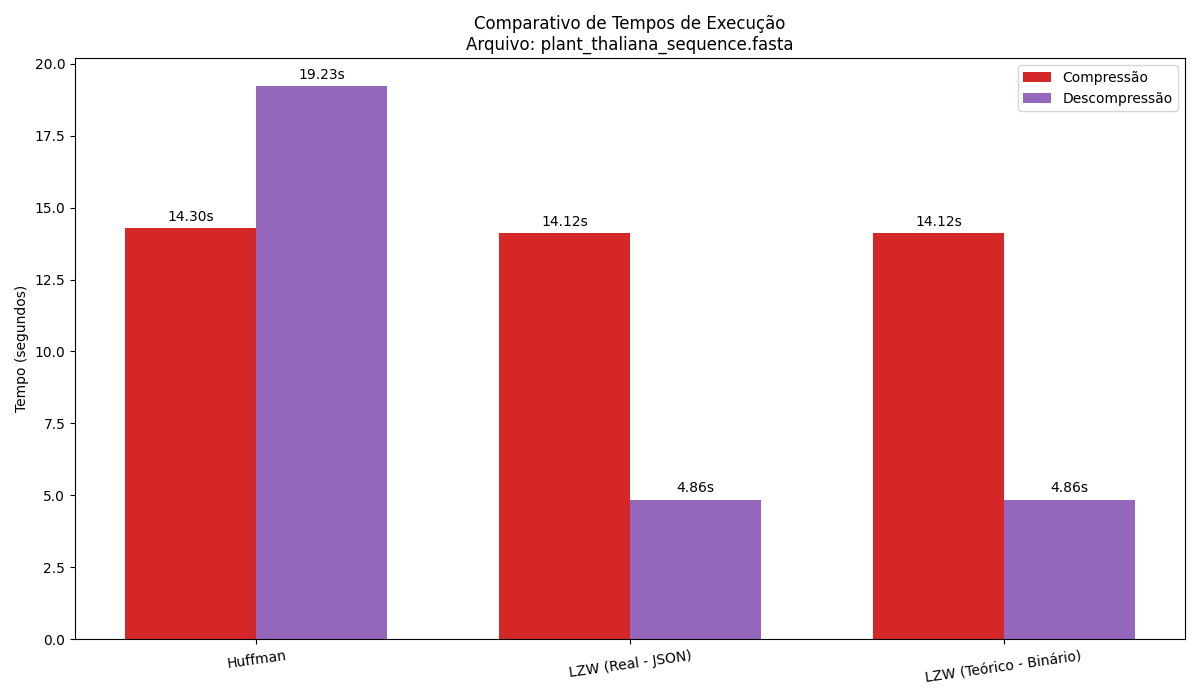
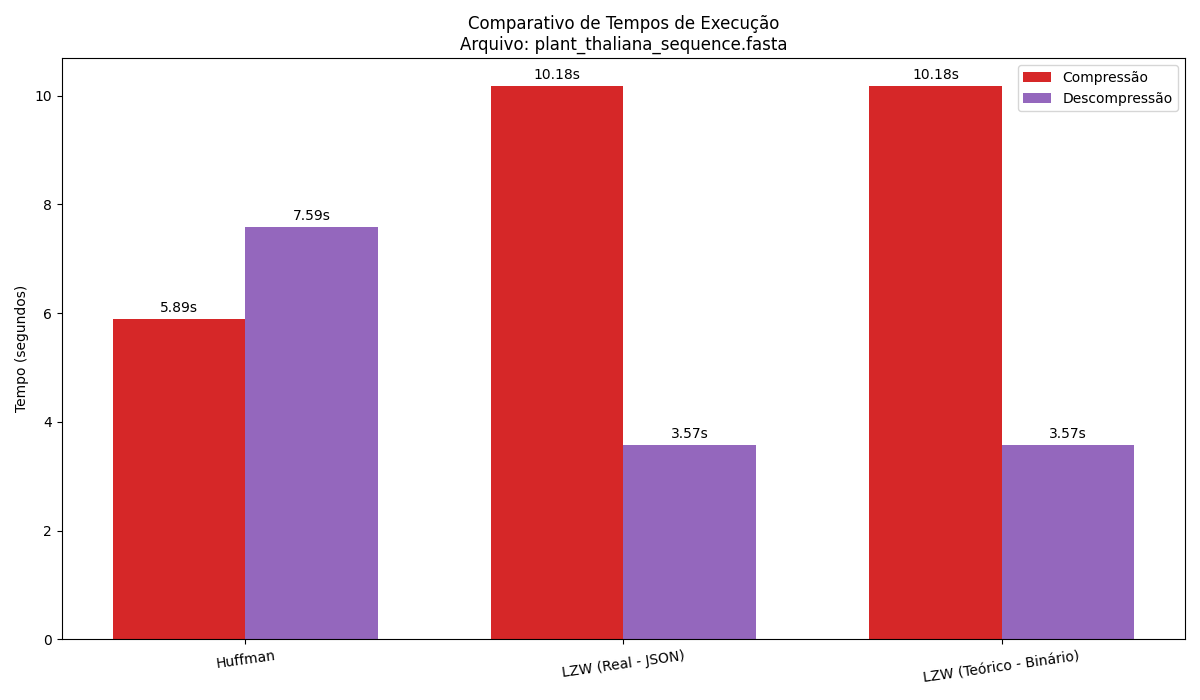
Menu interativo para selecionar arquivo, e alguns resultados adicionais nos relatórios

diff --git a/src/main.py b/src/main.py
@@ -111,6 +111,37 @@ def gerar_relatorio_markdown(resultados: dict, arquivo_base: str, tamanho_origin
             t_decomp = res['Tempo de Descompressão (s)']
             f.write(f"| **{algoritmo}** | {tamanho:.2f} | {taxa:.2f} | {t_comp:.4f} | {t_decomp:.4f} |\n")
         
+
+        f.write("\n## Métricas Avançadas e Análise Teórica\n\n")
+
+        # --- Análise Huffman ---
+        huffman_res = resultados.get('Huffman', {})
+        if 'Entropia de Shannon (bits/símbolo)' in huffman_res:
+            f.write("### Análise do Algoritmo Huffman\n\n")
+            entropia = huffman_res['Entropia de Shannon (bits/símbolo)']
+            comp_medio = huffman_res['Comprimento Médio do Código (bits/símbolo)']
+            
+            f.write(f"- **Entropia de Shannon:** `{entropia:.4f}` bits/símbolo\n")
+            f.write("  - *Significado: Representa o **limite teórico** da compressão para este arquivo. É o número mínimo de bits, em média, necessários para representar cada caractere com base em suas frequências.*\n\n")
+            
+            f.write(f"- **Comprimento Médio do Código:** `{comp_medio:.4f}` bits/símbolo\n")
+            f.write("  - *Significado: Representa o **desempenho real** da nossa implementação. Um valor próximo da entropia indica uma compressão Huffman de altíssima eficiência, mostrando que o algoritmo se aproximou do ótimo teórico.*\n\n")
+
+        # --- Análise LZW ---
+        lzw_res = resultados.get('LZW (Teórico - Binário)', {})
+        if 'Tamanho Final do Dicionário' in lzw_res:
+            f.write("### Análise do Algoritmo LZW\n\n")
+            dict_size = lzw_res['Tamanho Final do Dicionário']
+            reduction_rate = lzw_res['Taxa de Redução de Símbolos']
+
+            f.write(f"- **Tamanho Final do Dicionário:** `{dict_size:,}` entradas\n")
+            f.write("  - *Significado: Indica quantos padrões únicos e sequências repetitivas o algoritmo 'aprendeu'. Um número maior sugere que o arquivo possui uma estrutura com mais repetições que podem ser exploradas.*\n\n")
+
+            f.write(f"- **Taxa de Redução de Símbolos:** `{reduction_rate:.2f}`\n")
+            f.write("  - *Significado: Mostra, em média, quantos caracteres do texto original foram representados por **um único código LZW**. Um valor maior é um forte indicador de alta eficiência de compressão.*\n\n")
+
+
+
         # Gráficos
         f.write("\n## Gráficos Comparativos\n\n")
         f.write("### Comparativo de Tamanho Final\n")
@@ -129,23 +160,58 @@ def main():
     """
     print("--- INÍCIO DO PROCESSO DE ANÁLISE COMPARATIVA DE COMPRESSÃO ---")
 
-    # --- CONFIGURAÇÃO ---
-    arquivo_base = "plant_thaliana_sequence" # Altere para testar outros genomas
+    # --- SELEÇÃO DE ARQUIVO INTERATIVA ---
     
-    caminho_entrada = f'data/{arquivo_base}.fasta'
-    # Huffman paths
-    caminho_comprimido_huffman = f'data/{arquivo_base}_huffman.huff'
-    caminho_descomprimido_huffman = f'data/{arquivo_base}_huffman_decompressed.fasta'
-    # LZW path (para o arquivo JSON real)
-    caminho_comprimido_lzw = f'data/{arquivo_base}_lzw.lzw'
+    print("\n[ETAPA 0: Seleção de Arquivo]")
+    
+    # 1. Encontra todos os arquivos .fasta na pasta data/
+    data_path = 'data'
+    try:
+        fasta_files = [f for f in os.listdir(data_path) if f.endswith(('.fasta', '.fa'))]
+    except FileNotFoundError:
+        print(f"ERRO: A pasta '{data_path}' não foi encontrada. Crie-a e adicione seus arquivos .fasta.")
+        return
+
+    if not fasta_files:
+        print(f"ERRO: Nenhum arquivo .fasta encontrado na pasta '{data_path}'.")
+        return
+
+    # 2. Mostra os arquivos para o usuário
+    print("Por favor, escolha o arquivo de genoma para analisar:")
+    for i, filename in enumerate(fasta_files):
+        print(f"  [{i + 1}] {filename}")
+
+    # 3. Pede ao usuário para escolher um número
+    escolha = -1
+    while True:
+        try:
+            entrada = input(f"Digite o número do arquivo (1-{len(fasta_files)}): ")
+            escolha = int(entrada) - 1
+            if 0 <= escolha < len(fasta_files):
+                break
+            else:
+                print("Escolha inválida. Por favor, digite um número da lista.")
+        except ValueError:
+            print("Entrada inválida. Por favor, digite um número.")
+
+    # 4. Define o arquivo_base com base na escolha do usuário
+    arquivo_fasta_selecionado = fasta_files[escolha]
+    arquivo_base = os.path.splitext(arquivo_fasta_selecionado)[0]
+    
+    # --- FIM DA SELEÇÃO ---
+
+
+    # --- CONFIGURAÇÃO ---
+    
+    caminho_entrada = os.path.join('data', arquivo_fasta_selecionado) # Usa o nome completo
+    caminho_comprimido_huffman = os.path.join('data', f'{arquivo_base}_huffman.huff') # Usa o nome base
+    caminho_descomprimido_huffman = os.path.join('data', f'{arquivo_base}_huffman_decompressed.fasta') # Usa o nome base
+    caminho_comprimido_lzw = os.path.join('data', f'{arquivo_base}_lzw.lzw') # Usa o nome base
 
     resultados = {}
 
     # --- 1. ANÁLISE DO ARQUIVO ORIGINAL ---
     print("\n[ETAPA 1: Análise do Arquivo Original]")
-    if not os.path.exists(caminho_entrada):
-        print(f"ERRO: Arquivo de entrada não encontrado em '{caminho_entrada}'")
-        return
 
     tamanho_original = os.path.getsize(caminho_entrada)
     print(f"Arquivo a ser processado: {caminho_entrada}")

diff --git a/RELATORIO_plant_thaliana_sequence.md b/RELATORIO_plant_thaliana_sequence.md
@@ -2,16 +2,35 @@
 
 ## Arquivo Analisado
 - **Nome:** `plant_thaliana_sequence.fasta`
-- **Tamanho Original:** 30139.07 KB
+- **Tamanho Original:** 30563.57 KB
 - **Total de Bases:** 30,427,671
 
 ## Tabela de Resultados
 
 | Algoritmo | Tamanho Comprimido (KB) | Taxa de Compressão (%) | Tempo Compressão (s) | Tempo Descompressão (s) |
 |---|---|---|---|---|
-| **Huffman** | 8130.76 | 73.02 | 14.2964 | 19.2263 |
-| **LZW (Real - JSON)** | 24087.23 | 20.08 | 14.1241 | 4.8600 |
-| **LZW (Teórico - Binário)** | 8132.86 | 73.02 | 14.1241 | 4.8600 |
+| **Huffman** | 8130.76 | 73.40 | 5.8912 | 7.5857 |
+| **LZW (Real - JSON)** | 24087.23 | 21.19 | 10.1791 | 3.5665 |
+| **LZW (Teórico - Binário)** | 8132.86 | 73.39 | 10.1791 | 3.5665 |
+
+## Métricas Avançadas e Análise Teórica
+
+### Análise do Algoritmo Huffman
+
+- **Entropia de Shannon:** `1.9798` bits/símbolo
+  - *Significado: Representa o **limite teórico** da compressão para este arquivo. É o número mínimo de bits, em média, necessários para representar cada caractere com base em suas frequências.*
+
+- **Comprimento Médio do Código:** `2.1890` bits/símbolo
+  - *Significado: Representa o **desempenho real** da nossa implementação. Um valor próximo da entropia indica uma compressão Huffman de altíssima eficiência, mostrando que o algoritmo se aproximou do ótimo teórico.*
+
+### Análise do Algoritmo LZW
+
+- **Tamanho Final do Dicionário:** `3,028,635` entradas
+  - *Significado: Indica quantos padrões únicos e sequências repetitivas o algoritmo 'aprendeu'. Um número maior sugere que o arquivo possui uma estrutura com mais repetições que podem ser exploradas.*
+
+- **Taxa de Redução de Símbolos:** `10.05`
+  - *Significado: Mostra, em média, quantos caracteres do texto original foram representados por **um único código LZW**. Um valor maior é um forte indicador de alta eficiência de compressão.*
+
 
 ## Gráficos Comparativos
 

diff --git a/RELATORIO_humano_chromosome-22_sequence.md b/RELATORIO_humano_chromosome-22_sequence.md
@@ -9,9 +9,28 @@
 
 | Algoritmo | Tamanho Comprimido (KB) | Taxa de Compressão (%) | Tempo Compressão (s) | Tempo Descompressão (s) |
 |---|---|---|---|---|
-| **Huffman** | 15772.12 | 68.67 | 10.7913 | 15.6051 |
-| **LZW (Real - JSON)** | 29263.49 | 41.86 | 22.0065 | 4.1745 |
-| **LZW (Teórico - Binário)** | 9722.73 | 80.68 | 22.0065 | 4.1745 |
+| **Huffman** | 15772.12 | 68.67 | 11.2468 | 15.7926 |
+| **LZW (Real - JSON)** | 29263.49 | 41.86 | 23.3278 | 4.1289 |
+| **LZW (Teórico - Binário)** | 9722.73 | 80.68 | 23.3278 | 4.1289 |
+
+## Métricas Avançadas e Análise Teórica
+
+### Análise do Algoritmo Huffman
+
+- **Entropia de Shannon:** `2.3162` bits/símbolo
+  - *Significado: Representa o **limite teórico** da compressão para este arquivo. É o número mínimo de bits, em média, necessários para representar cada caractere com base em suas frequências.*
+
+- **Comprimento Médio do Código:** `2.5425` bits/símbolo
+  - *Significado: Representa o **desempenho real** da nossa implementação. Um valor próximo da entropia indica uma compressão Huffman de altíssima eficiência, mostrando que o algoritmo se aproximou do ótimo teórico.*
+
+### Análise do Algoritmo LZW
+
+- **Tamanho Final do Dicionário:** `3,620,645` entradas
+  - *Significado: Indica quantos padrões únicos e sequências repetitivas o algoritmo 'aprendeu'. Um número maior sugere que o arquivo possui uma estrutura com mais repetições que podem ser exploradas.*
+
+- **Taxa de Redução de Símbolos:** `14.04`
+  - *Significado: Mostra, em média, quantos caracteres do texto original foram representados por **um único código LZW**. Um valor maior é um forte indicador de alta eficiência de compressão.*
+
 
 ## Gráficos Comparativos
 

diff --git a/RELATORIO_bacteria_e-coli_sequence.md b/RELATORIO_bacteria_e-coli_sequence.md
@@ -9,9 +9,28 @@
 
 | Algoritmo | Tamanho Comprimido (KB) | Taxa de Compressão (%) | Tempo Compressão (s) | Tempo Descompressão (s) |
 |---|---|---|---|---|
-| **Huffman** | 1133.27 | 75.35 | 0.8363 | 0.9472 |
-| **LZW (Real - JSON)** | 3941.95 | 14.26 | 1.0600 | 0.4779 |
-| **LZW (Teórico - Binário)** | 1329.53 | 71.08 | 1.0600 | 0.4779 |
+| **Huffman** | 1133.27 | 75.35 | 0.8200 | 1.0655 |
+| **LZW (Real - JSON)** | 3941.95 | 14.26 | 1.2105 | 0.4808 |
+| **LZW (Teórico - Binário)** | 1329.53 | 71.08 | 1.2105 | 0.4808 |
+
+## Métricas Avançadas e Análise Teórica
+
+### Análise do Algoritmo Huffman
+
+- **Entropia de Shannon:** `1.9998` bits/símbolo
+  - *Significado: Representa o **limite teórico** da compressão para este arquivo. É o número mínimo de bits, em média, necessários para representar cada caractere com base em suas frequências.*
+
+- **Comprimento Médio do Código:** `2.0000` bits/símbolo
+  - *Significado: Representa o **desempenho real** da nossa implementação. Um valor próximo da entropia indica uma compressão Huffman de altíssima eficiência, mostrando que o algoritmo se aproximou do ótimo teórico.*
+
+### Análise do Algoritmo LZW
+
+- **Tamanho Final do Dicionário:** `544,831` entradas
+  - *Significado: Indica quantos padrões únicos e sequências repetitivas o algoritmo 'aprendeu'. Um número maior sugere que o arquivo possui uma estrutura com mais repetições que podem ser exploradas.*
+
+- **Taxa de Redução de Símbolos:** `8.52`
+  - *Significado: Mostra, em média, quantos caracteres do texto original foram representados por **um único código LZW**. Um valor maior é um forte indicador de alta eficiência de compressão.*
+
 
 ## Gráficos Comparativos
 

diff --git a/RELATORIO_virus_phage-lambda_sequence.md b/RELATORIO_virus_phage-lambda_sequence.md
@@ -9,9 +9,28 @@
 
 | Algoritmo | Tamanho Comprimido (KB) | Taxa de Compressão (%) | Tempo Compressão (s) | Tempo Descompressão (s) |
 |---|---|---|---|---|
-| **Huffman** | 11.89 | 75.28 | 0.0082 | 0.0186 |
-| **LZW (Real - JSON)** | 49.75 | -3.43 | 0.0101 | 0.0028 |
-| **LZW (Teórico - Binário)** | 15.25 | 68.30 | 0.0101 | 0.0028 |
+| **Huffman** | 11.89 | 75.28 | 0.0125 | 0.0254 |
+| **LZW (Real - JSON)** | 49.75 | -3.43 | 0.0093 | 0.0031 |
+| **LZW (Teórico - Binário)** | 15.25 | 68.30 | 0.0093 | 0.0031 |
+
+## Métricas Avançadas e Análise Teórica
+
+### Análise do Algoritmo Huffman
+
+- **Entropia de Shannon:** `1.9986` bits/símbolo
+  - *Significado: Representa o **limite teórico** da compressão para este arquivo. É o número mínimo de bits, em média, necessários para representar cada caractere com base em suas frequências.*
+
+- **Comprimento Médio do Código:** `2.0000` bits/símbolo
+  - *Significado: Representa o **desempenho real** da nossa implementação. Um valor próximo da entropia indica uma compressão Huffman de altíssima eficiência, mostrando que o algoritmo se aproximou do ótimo teórico.*
+
+### Análise do Algoritmo LZW
+
+- **Tamanho Final do Dicionário:** `9,176` entradas
+  - *Significado: Indica quantos padrões únicos e sequências repetitivas o algoritmo 'aprendeu'. Um número maior sugere que o arquivo possui uma estrutura com mais repetições que podem ser exploradas.*
+
+- **Taxa de Redução de Símbolos:** `5.44`
+  - *Significado: Mostra, em média, quantos caracteres do texto original foram representados por **um único código LZW**. Um valor maior é um forte indicador de alta eficiência de compressão.*
+
 
 ## Gráficos Comparativos
 
